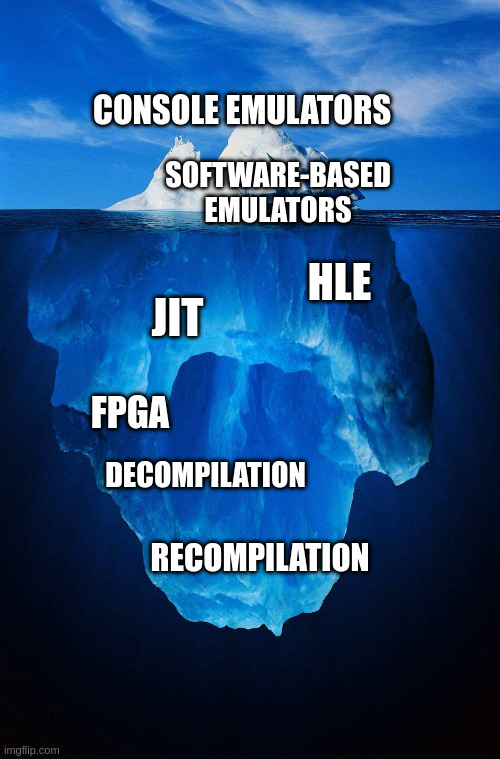
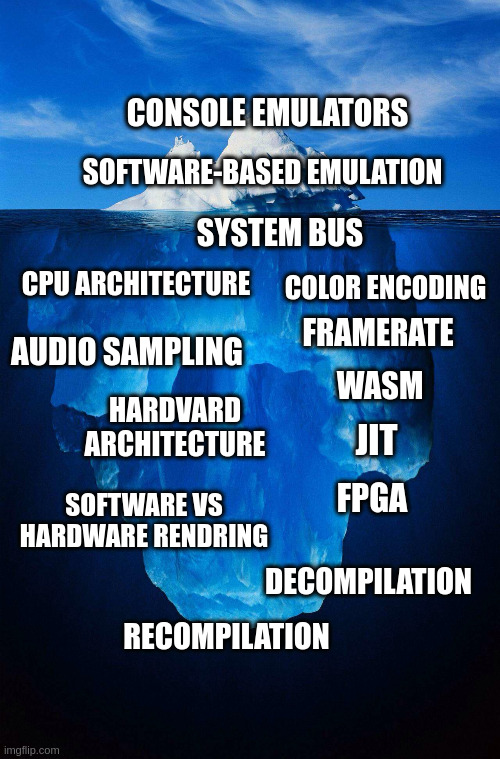
fix: more fixes

diff --git a/src/slides/index.tsx b/src/slides/index.tsx
@@ -17,6 +17,7 @@ import consoleTierlistImgUrl from "../assets/tierlist.jpg";
 import nesdevImgUrl from "../assets/nesdev.png";
 import emudevImgUrl from "../assets/emudev.png";
 import sdlImgUrl from "../assets/logo/sdl.svg";
+import icebergImgUrl from "../assets/emulation-iceberg.jpg";
 import castleGIFImgUrl from "../assets/castle.gif";
 import qrcodeImgUrl from "../assets/qrcode.svg";
 
@@ -426,6 +427,14 @@ export const slides: Slide[] = [
     component: (
       <div className="w-full h-full flex justify-center items-center">
         <YellowHeader>And that's roughly it...</YellowHeader>
+      </div>
+    ),
+  },
+  {
+    caption: "Emulation iceberg",
+    component: (
+      <div className="w-full h-full flex justify-center items-center">
+        <img src={icebergImgUrl} className="w-full" alt="Emulation iceberg" />
       </div>
     ),
   },

diff --git a/README.md b/README.md
@@ -7,4 +7,5 @@ This repository contains the slides I presented at AgoGames 2 on 29 August, 2026
 - A robust definition of emulation
 - Software emulation vs Hardware emulation
 - Retro console/computer architecture
+- High-level overview of a Software emulator
 - How to get started with emulation
